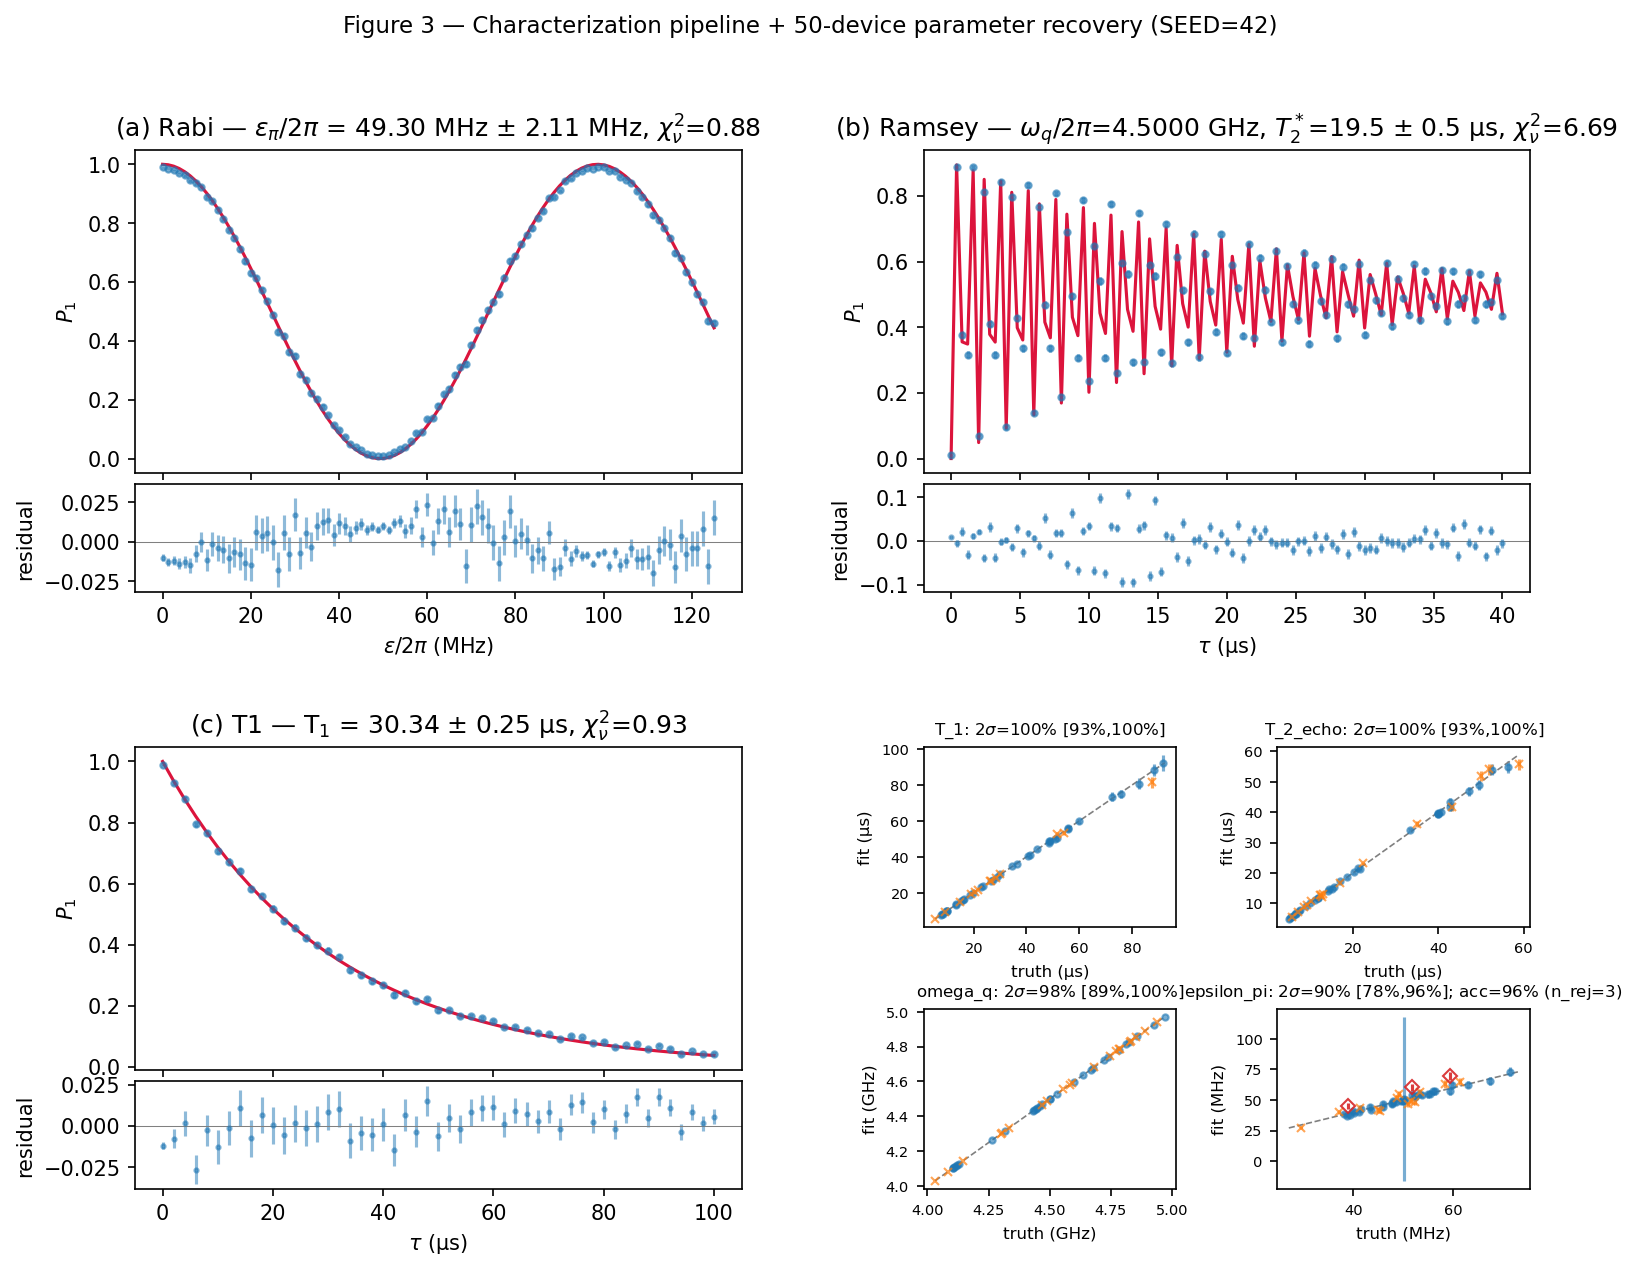
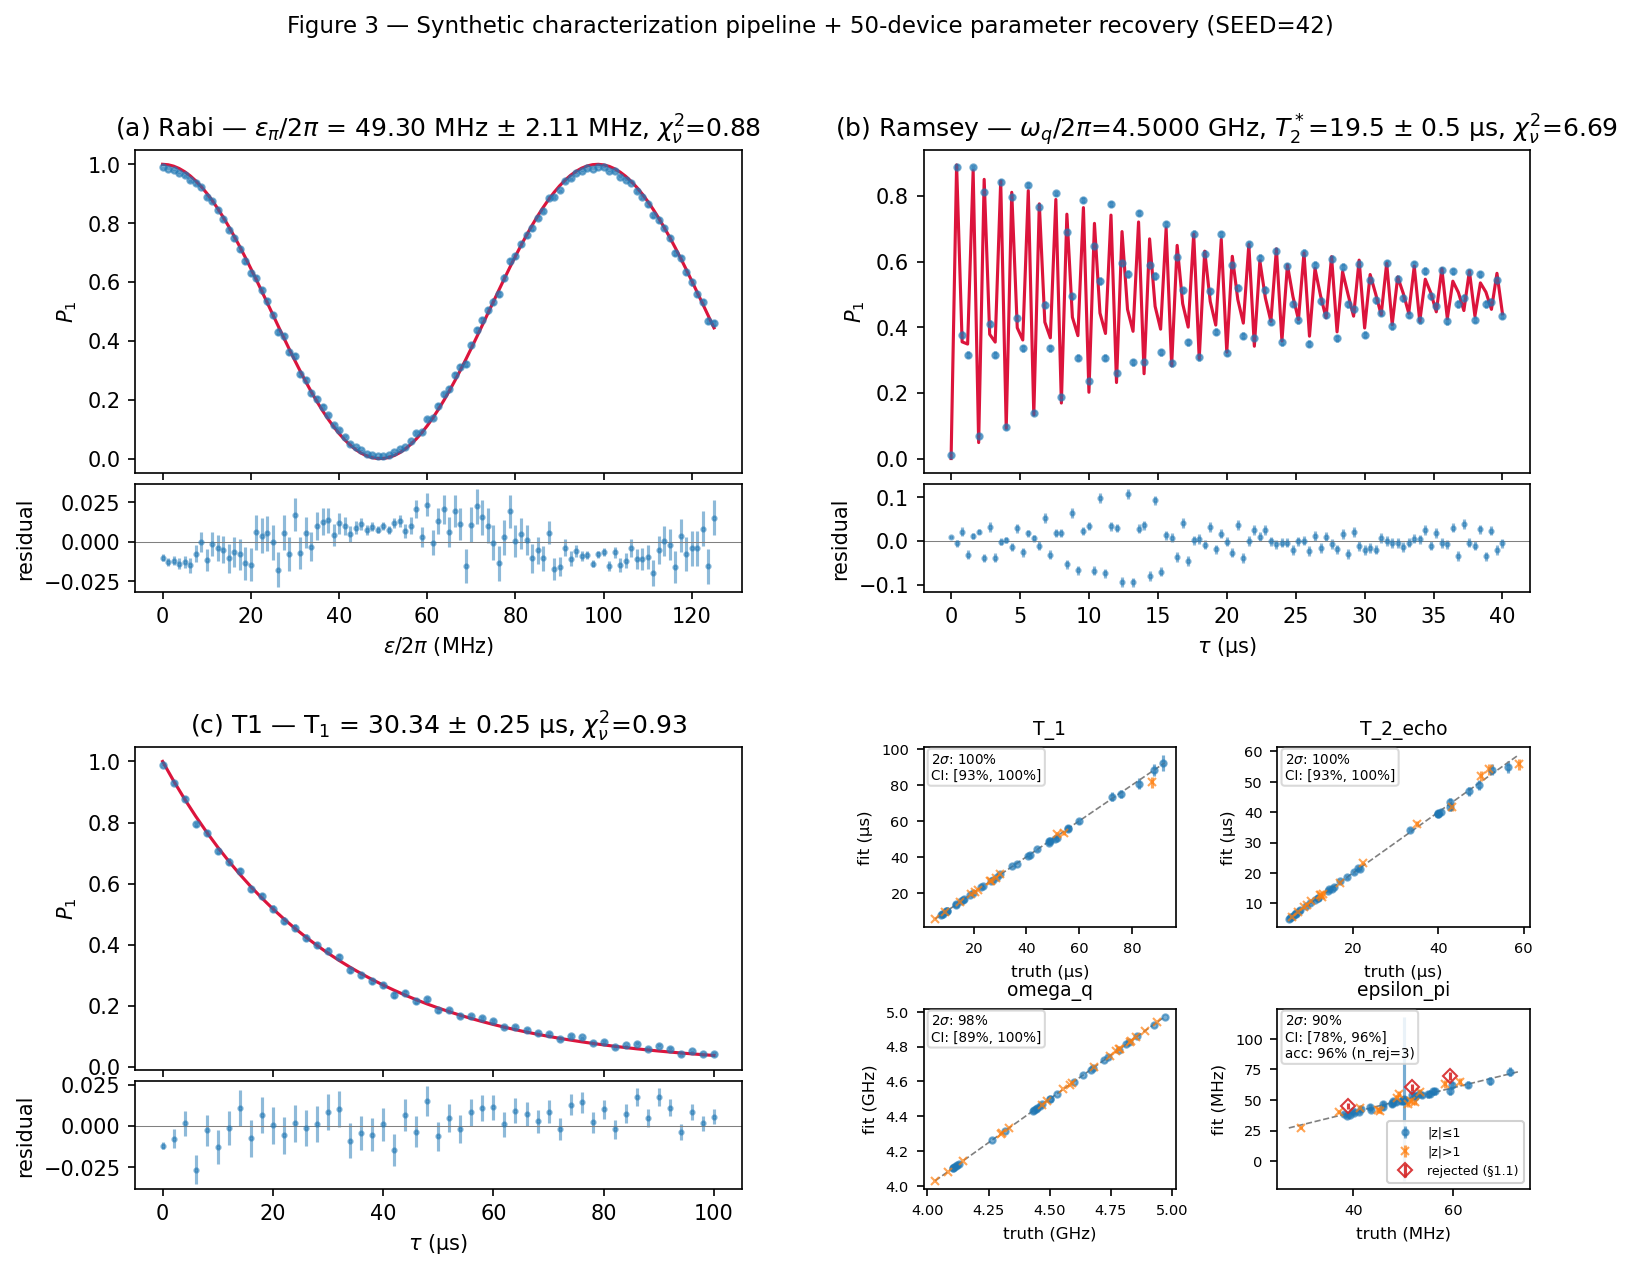
chore(stage06): fig3 layout cleanup — shorter titles + legend + Synthetic suptitle
Third-reviewer fixes:
- Sub-panel titles reduced to just parameter name (T_1, T_2_echo,
  omega_q, epsilon_pi); the bottom-row title collision went away.
- Each sub-panel's coverage stats (2σ, CI, and accepted/n_rej where
  nonzero) moved to a small in-axes text box (upper-left, fontsize=6.5).
- Legend added to the ε_π panel — it's the only panel with red-diamond
  rejected markers, and the panel that readers will interrogate most.
- Suptitle prepended with "Synthetic" so the plot stands on its own
  outside the report caption.

No code logic changed; purely presentation. Artifact unchanged.

diff --git a/06_Dispersive_Readout/scripts/fig3_characterization.py b/06_Dispersive_Readout/scripts/fig3_characterization.py
@@ -127,7 +127,7 @@ def _panel_recovery(fig, gs_slot):
         # Rejected traces (spec §1.1 reject_flag set) — distinct marker
         if rej.any():
             ax.errorbar(x[rej], y[rej], yerr=yerr[rej], fmt="D", ms=5,
-                        color="tab:red", mfc="none", label="rejected",
+                        color="tab:red", mfc="none", label="rejected (§1.1)",
                         capsize=0, alpha=0.9)
         lo = min(x.min(), y.min())
         hi = max(x.max(), y.max())
@@ -136,13 +136,24 @@ def _panel_recovery(fig, gs_slot):
         cov2 = rep.coverage_2_sigma
         cov2_acc = rep.coverage_2_sigma_on_accepted
         ci = (rep.coverage_2_sigma_ci_low, rep.coverage_2_sigma_ci_high)
-        title = rf"{name}: 2$\sigma$={cov2:.0%} [{ci[0]:.0%},{ci[1]:.0%}]"
-        if rep.n_rejected > 0:
-            title += f"; acc={cov2_acc:.0%} (n_rej={rep.n_rejected})"
-        ax.set_title(title, fontsize=8)
+        # Title: parameter name only — keeps the bottom row readable at
+        # the small sub-panel size. Stats move into an in-axes text box.
+        ax.set_title(name, fontsize=9)
         ax.set_xlabel(f"truth ({lab})", fontsize=8)
         ax.set_ylabel(f"fit ({lab})", fontsize=8)
         ax.tick_params(labelsize=7)
+        stat_lines = [rf"2$\sigma$: {cov2:.0%}",
+                      f"CI: [{ci[0]:.0%}, {ci[1]:.0%}]"]
+        if rep.n_rejected > 0:
+            stat_lines.append(f"acc: {cov2_acc:.0%} (n_rej={rep.n_rejected})")
+        ax.text(0.03, 0.97, "\n".join(stat_lines), transform=ax.transAxes,
+                fontsize=6.5, verticalalignment="top",
+                bbox=dict(boxstyle="round,pad=0.25", facecolor="white",
+                          edgecolor="lightgray", alpha=0.85))
+        # Legend only on the ε_π panel — it's the only one with rejected
+        # markers and the one readers will interrogate most.
+        if name == "epsilon_pi":
+            ax.legend(loc="lower right", fontsize=6, framealpha=0.9)
 
 
 def main() -> None:
@@ -155,7 +166,7 @@ def main() -> None:
     gc = outer[1, 0].subgridspec(2, 1, height_ratios=[3, 1], hspace=0.05)
     _panel_t1(fig.add_subplot(gc[0]), fig.add_subplot(gc[1]))
     _panel_recovery(fig, outer[1, 1])
-    fig.suptitle("Figure 3 — Characterization pipeline + 50-device parameter recovery (SEED=42)", fontsize=11)
+    fig.suptitle("Figure 3 — Synthetic characterization pipeline + 50-device parameter recovery (SEED=42)", fontsize=11)
     _OUT.parent.mkdir(parents=True, exist_ok=True)
     fig.savefig(_OUT, bbox_inches="tight", dpi=150)
     print(f"Wrote {_OUT}")
